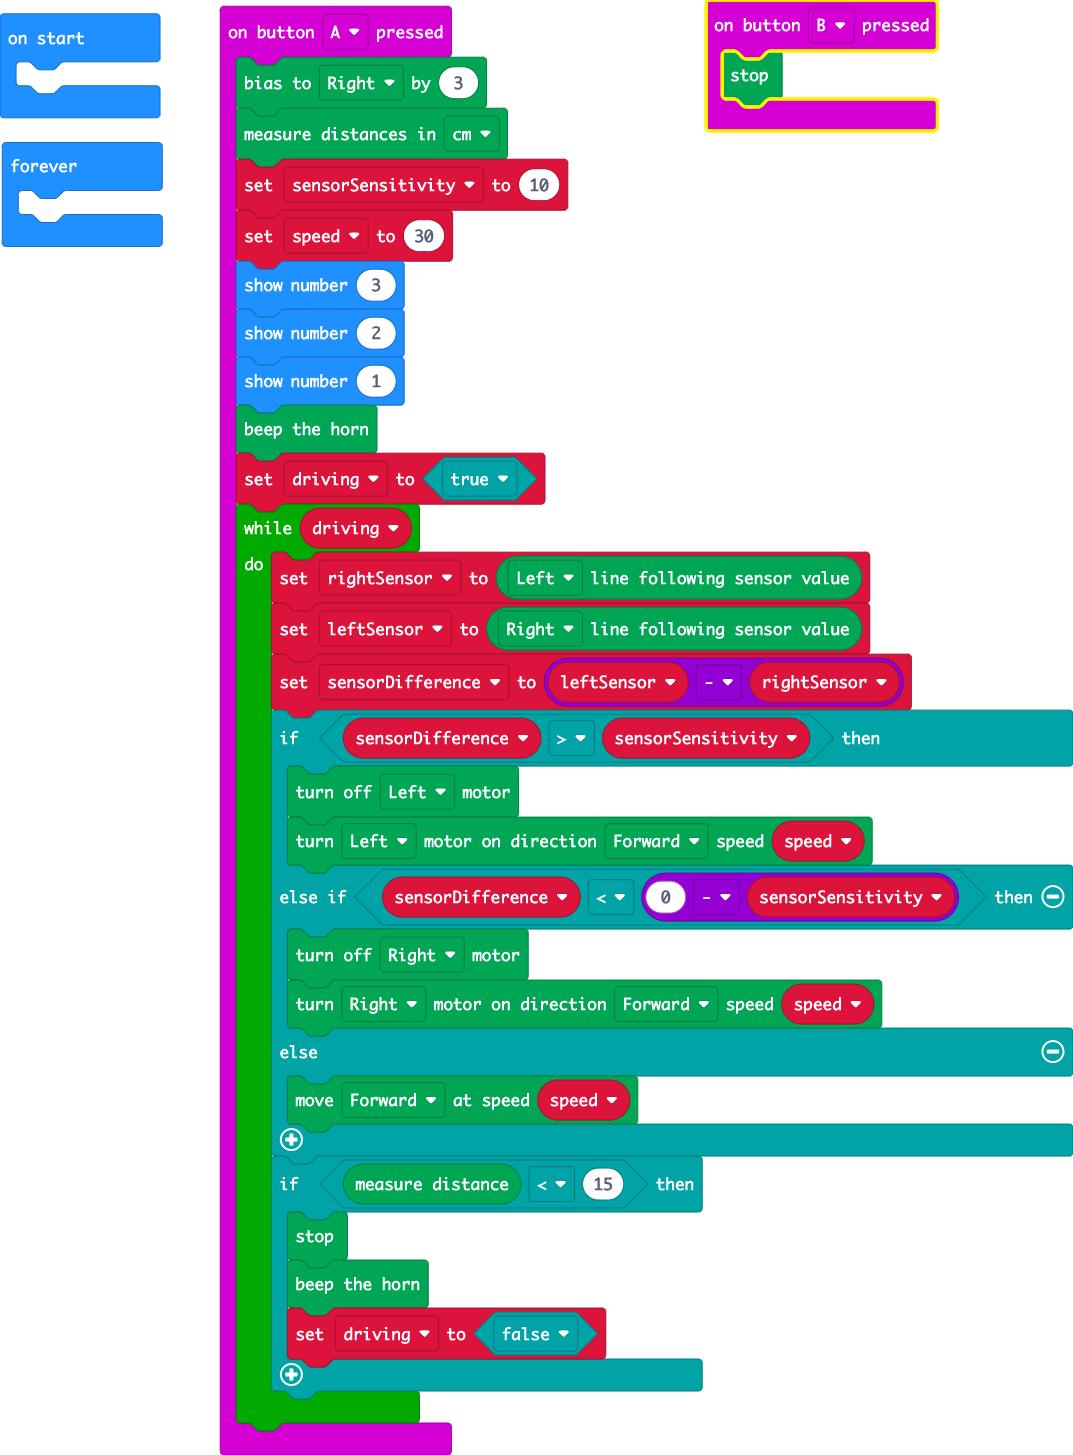
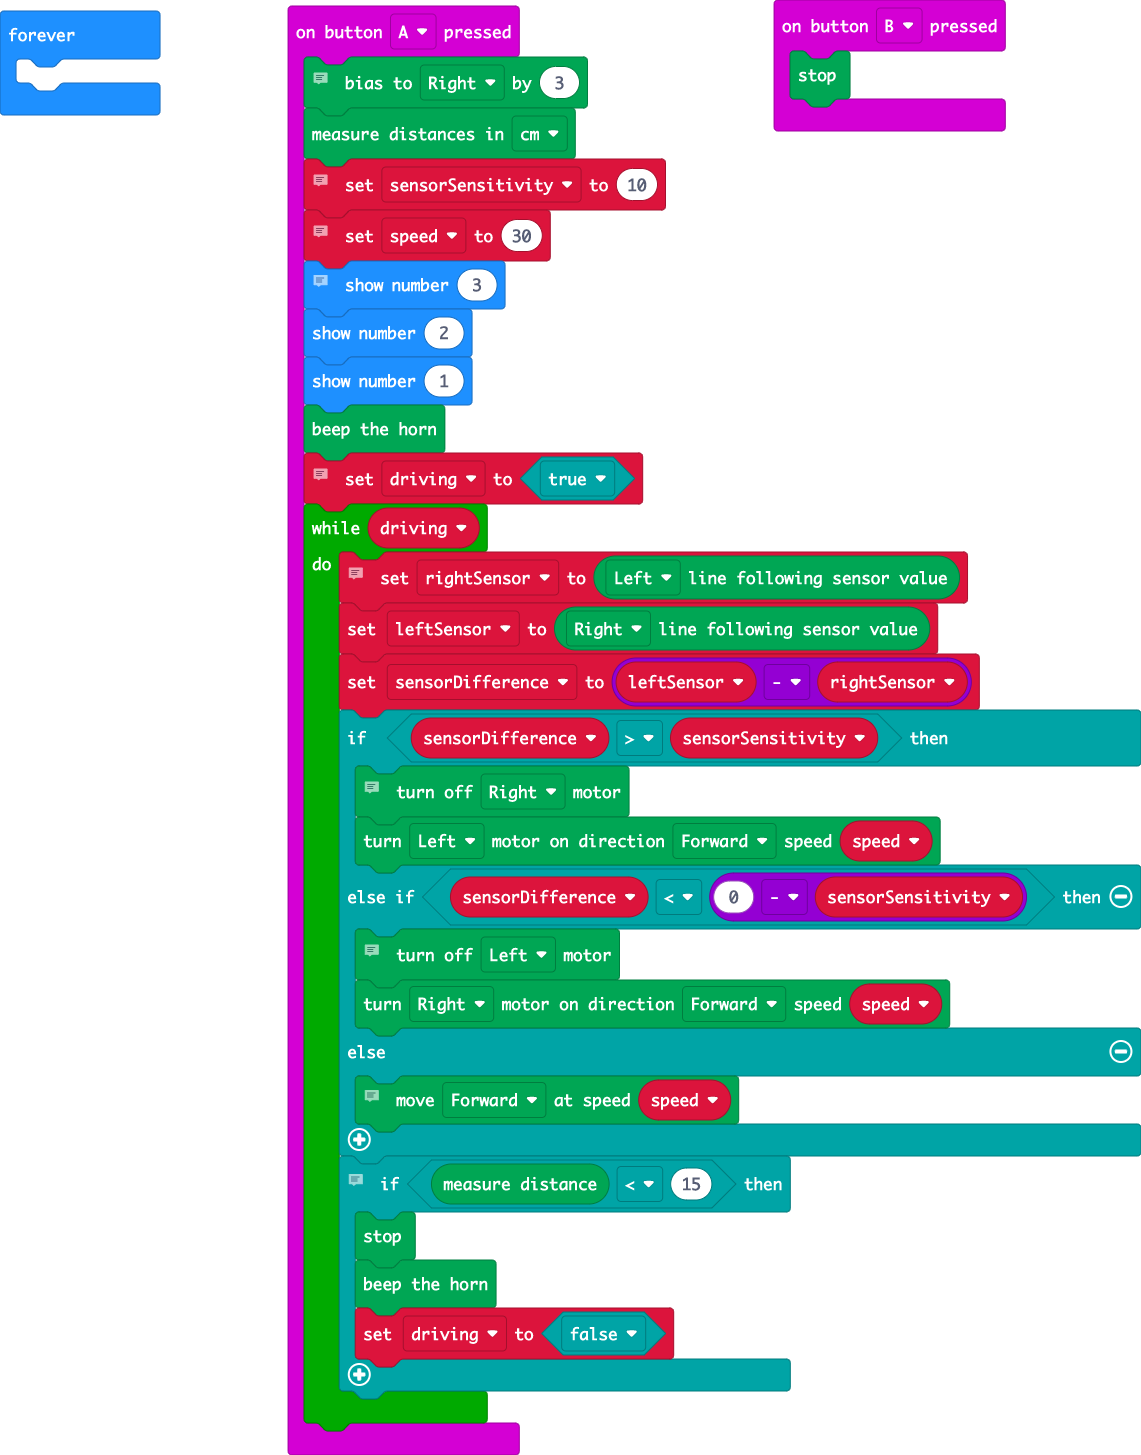
Bug fixes and comments

diff --git a/main.ts b/main.ts
@@ -5,28 +5,38 @@ let rightSensor = 0
 let leftSensor = 0
 let sensorDifference = 0
 input.onButtonPressed(Button.A, function () {
+    // Just for this Kitronik Move
     Kitronik_Move_Motor.motorBalance(Kitronik_Move_Motor.SpinDirections.Right, 3)
     Kitronik_Move_Motor.setUltrasonicUnits(Kitronik_Move_Motor.Units.Centimeters)
+    // Sensitivity of the optical sensor
     sensorSensitivity = 10
+    // Speed of the robot
     speed = 30
+    // count down!
     basic.showNumber(3)
     basic.showNumber(2)
     basic.showNumber(1)
     Kitronik_Move_Motor.beepHorn()
+    // Drive!
     driving = true
     while (driving) {
+        // Read sensors
         rightSensor = Kitronik_Move_Motor.readSensor(Kitronik_Move_Motor.LfSensor.Left)
         leftSensor = Kitronik_Move_Motor.readSensor(Kitronik_Move_Motor.LfSensor.Right)
         sensorDifference = leftSensor - rightSensor
         if (sensorDifference > sensorSensitivity) {
-            Kitronik_Move_Motor.motorOff(Kitronik_Move_Motor.Motors.MotorLeft)
+            // We need to turn right
+            Kitronik_Move_Motor.motorOff(Kitronik_Move_Motor.Motors.MotorRight)
             Kitronik_Move_Motor.motorOn(Kitronik_Move_Motor.Motors.MotorLeft, Kitronik_Move_Motor.MotorDirection.Forward, speed)
         } else if (sensorDifference < 0 - sensorSensitivity) {
-            Kitronik_Move_Motor.motorOff(Kitronik_Move_Motor.Motors.MotorRight)
+            // We need to turn left
+            Kitronik_Move_Motor.motorOff(Kitronik_Move_Motor.Motors.MotorLeft)
             Kitronik_Move_Motor.motorOn(Kitronik_Move_Motor.Motors.MotorRight, Kitronik_Move_Motor.MotorDirection.Forward, speed)
         } else {
+            // Hold the course
             Kitronik_Move_Motor.move(Kitronik_Move_Motor.DriveDirections.Forward, speed)
         }
+        // Crash protection!
         if (Kitronik_Move_Motor.measure() < 15) {
             Kitronik_Move_Motor.stop()
             Kitronik_Move_Motor.beepHorn()

diff --git a/main.py b/main.py
@@ -1,25 +1,57 @@
-sensorDifference = 0
-leftSensor = 0
+sensorSensitivity = 0
+speed = 0
+driving = False
 rightSensor = 0
-Kitronik_Move_Motor.motor_balance(Kitronik_Move_Motor.SpinDirections.RIGHT, 3)
-sensorSensitivity = 10
-speed = 30
+leftSensor = 0
+sensorDifference = 0
+
+def on_button_pressed_a():
+    global sensorSensitivity, speed, driving, rightSensor, leftSensor, sensorDifference
+    # Just for this Kitronik Move
+    Kitronik_Move_Motor.motor_balance(Kitronik_Move_Motor.SpinDirections.RIGHT, 3)
+    Kitronik_Move_Motor.set_ultrasonic_units(Kitronik_Move_Motor.Units.CENTIMETERS)
+    # Sensitivity of the optical sensor
+    sensorSensitivity = 10
+    # Speed of the robot
+    speed = 30
+    # count down!
+    basic.show_number(3)
+    basic.show_number(2)
+    basic.show_number(1)
+    Kitronik_Move_Motor.beep_horn()
+    # Drive!
+    driving = True
+    while driving:
+        # Read sensors
+        rightSensor = Kitronik_Move_Motor.read_sensor(Kitronik_Move_Motor.LfSensor.LEFT)
+        leftSensor = Kitronik_Move_Motor.read_sensor(Kitronik_Move_Motor.LfSensor.RIGHT)
+        sensorDifference = leftSensor - rightSensor
+        if sensorDifference > sensorSensitivity:
+            # We need to turn right
+            Kitronik_Move_Motor.motor_off(Kitronik_Move_Motor.Motors.MOTOR_RIGHT)
+            Kitronik_Move_Motor.motor_on(Kitronik_Move_Motor.Motors.MOTOR_LEFT,
+                Kitronik_Move_Motor.MotorDirection.FORWARD,
+                speed)
+        elif sensorDifference < 0 - sensorSensitivity:
+            # We need to turn left
+            Kitronik_Move_Motor.motor_off(Kitronik_Move_Motor.Motors.MOTOR_LEFT)
+            Kitronik_Move_Motor.motor_on(Kitronik_Move_Motor.Motors.MOTOR_RIGHT,
+                Kitronik_Move_Motor.MotorDirection.FORWARD,
+                speed)
+        else:
+            # Hold the course
+            Kitronik_Move_Motor.move(Kitronik_Move_Motor.DriveDirections.FORWARD, speed)
+        # Crash protection!
+        if Kitronik_Move_Motor.measure() < 15:
+            Kitronik_Move_Motor.stop()
+            Kitronik_Move_Motor.beep_horn()
+            driving = False
+input.on_button_pressed(Button.A, on_button_pressed_a)
+
+def on_button_pressed_b():
+    Kitronik_Move_Motor.stop()
+input.on_button_pressed(Button.B, on_button_pressed_b)
 
 def on_forever():
-    global rightSensor, leftSensor, sensorDifference
-    rightSensor = Kitronik_Move_Motor.read_sensor(Kitronik_Move_Motor.LfSensor.LEFT)
-    leftSensor = Kitronik_Move_Motor.read_sensor(Kitronik_Move_Motor.LfSensor.RIGHT)
-    sensorDifference = leftSensor - rightSensor
-    if sensorDifference > sensorSensitivity:
-        Kitronik_Move_Motor.motor_off(Kitronik_Move_Motor.Motors.MOTOR_LEFT)
-        Kitronik_Move_Motor.motor_on(Kitronik_Move_Motor.Motors.MOTOR_LEFT,
-            Kitronik_Move_Motor.MotorDirection.FORWARD,
-            speed)
-    elif sensorDifference < 0 - sensorSensitivity:
-        Kitronik_Move_Motor.motor_off(Kitronik_Move_Motor.Motors.MOTOR_RIGHT)
-        Kitronik_Move_Motor.motor_on(Kitronik_Move_Motor.Motors.MOTOR_RIGHT,
-            Kitronik_Move_Motor.MotorDirection.FORWARD,
-            speed)
-    else:
-        Kitronik_Move_Motor.move(Kitronik_Move_Motor.DriveDirections.FORWARD, speed)
+    pass
 basic.forever(on_forever)
